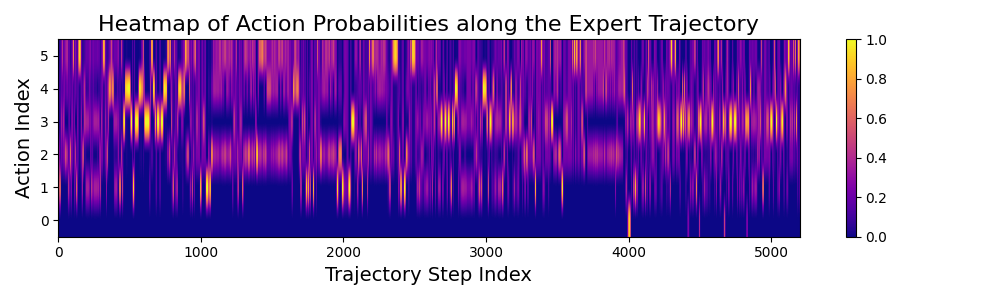
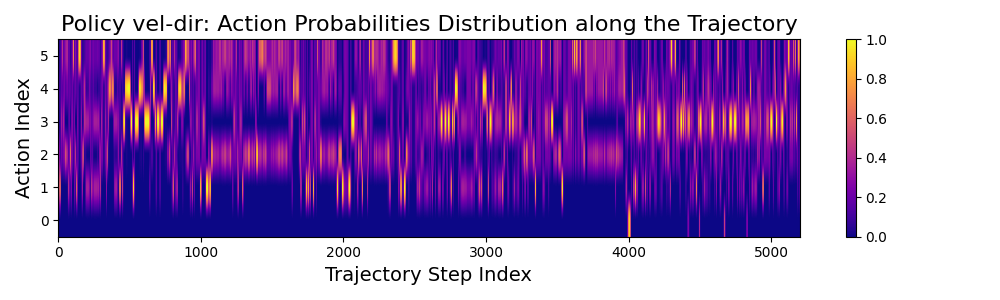
commit

Changed region(s): [[0.062, 0.03, 0.806, 0.12]]

diff --git a/plot_evaluate.py b/plot_evaluate.py
@@ -200,7 +200,8 @@ def plot_action_reward_individual(q_values, n_bin1, n_bin2, n_bin3, n_bin4, n_ac
 def plot_replicated_action_prob(q_values, state_indices, test_folder):
     plt.figure(figsize=(10, 3))
     plt.imshow(q_values[state_indices].T, cmap="plasma", aspect='auto')
-    plt.title("Heatmap of Action Probabilities along the Expert Trajectory", fontsize=16)
+    # plt.title("Heatmap of Action Probabilities along the Replicated Trajectory", fontsize=16)
+    plt.title("Policy vel-dir: Action Probabilities Distribution along the Trajectory", fontsize=16)
     plt.tick_params(axis='both', which='minor', labelsize=12)
     plt.xlabel("Trajectory Step Index", fontsize=14)
     plt.ylabel("Action Index", fontsize=14)
